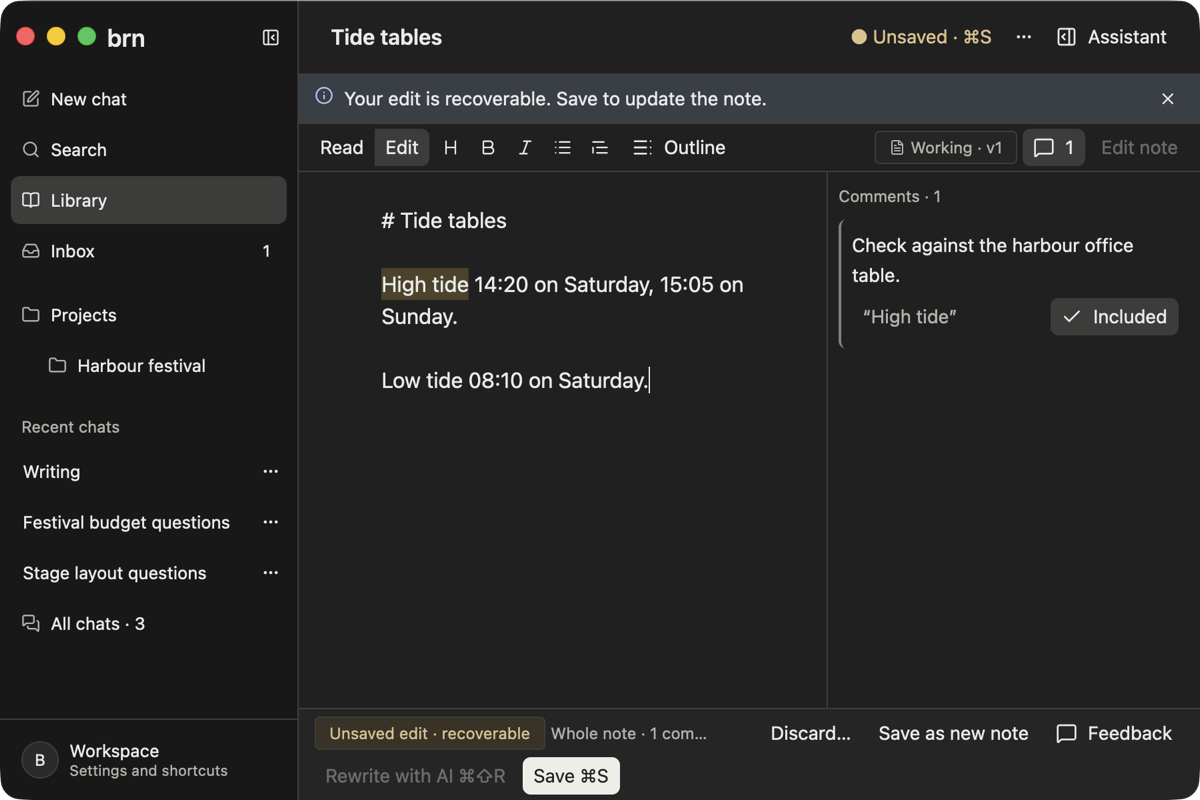
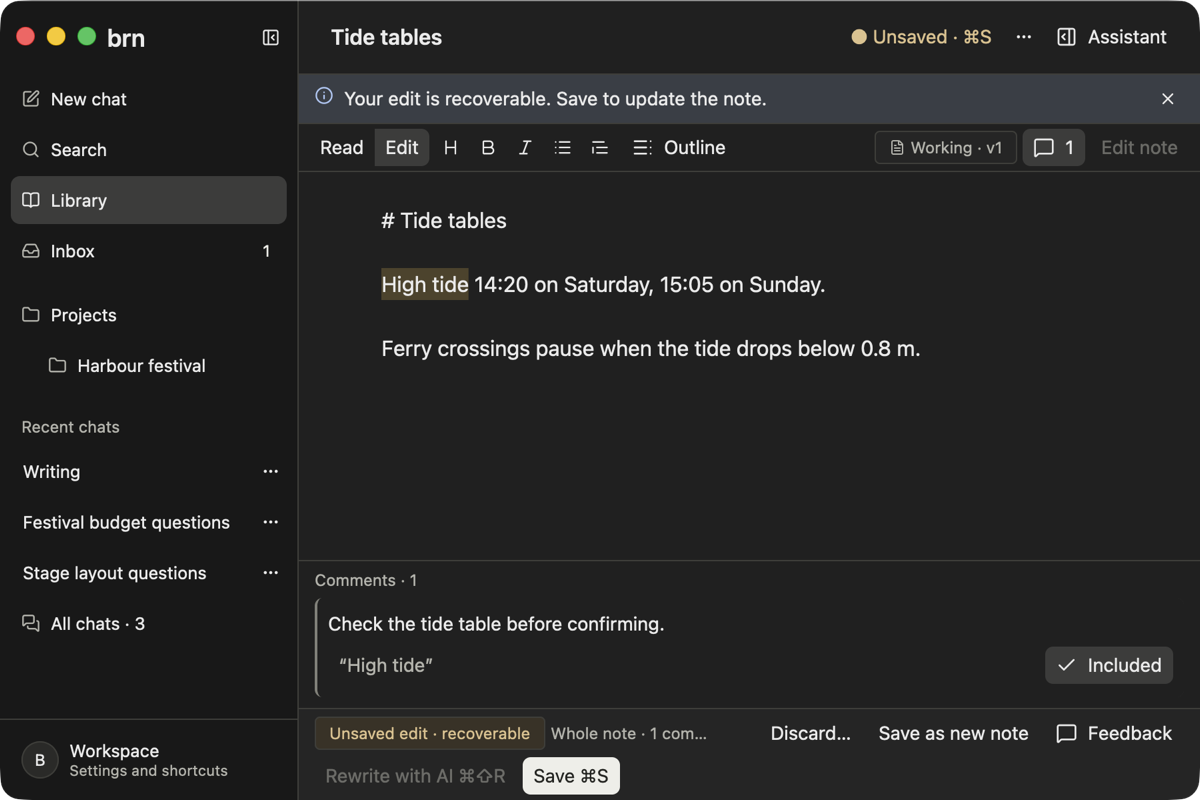
Record native recheck of the Codex fixes and recapture VE-04

diff --git a/docs/work/active/ux-rebuild/acceptance.md b/docs/work/active/ux-rebuild/acceptance.md
@@ -11,14 +11,14 @@ Build: recorded per row as the integration commit. Platform: macOS (Apple silico
 | AC-01 | Workspace continuity | Partial | Lead added last-location restore (host presentation state, `workspace_location`): a test reopens a project document with its project, a project page and Library, and falls back to New chat without a notice when the document is gone. Native Light: a project document quit with Cmd-Q reopened as Run sheet in Harbour festival with one composer and no run or scan. | `relaunch_restores_the_last_valid_workspace_location`; `shots/final/light-ac01-restored.png`. Pane visibility is kept within a session but not across relaunch; the full chat → project → Library → Inbox journey was not toured. |
 | AC-02 | Chat and draft isolation | Partial | Light + Dark 1280 | Native: the composer stays bound to each chat while switching. Automated: per-chat drafts, clear-once-after-accept, a refused send keeps its text and names the retry. Not natively driven across a restart. [S3 evidence](s3-chat-evidence.md) |
 | AC-03 | Queued messages | Pass | Light + Dark 1280 and 900 | Native: paused queue of four in the chat, the start screen and the 900 sheet, with aligned Edit/Remove/↑/↓; Enter queues while paused. Automated: edit, reorder both ways, remove and dispatch order. [S3 evidence](s3-chat-evidence.md) |
-| AC-04 | Stop, Resume, and Steer | Partial | Light + Dark 1280 | Native: Resume queue control present. Automated: Stop pauses the queue, explicit Resume, Steer persistence and partial answers. A live run needs paid provider calls, so Stop/Steer were not driven natively. [S3 evidence](s3-chat-evidence.md) Codex native (`f7ee6ad0`, paid `gpt-6.1-sol`): streaming, Stop, queue pause/resume, Edit and Remove observed; Steer saved two identical owner messages. Fixed in `822750ca` (the continuation reuses the posted message; `threads_steering_tests` asserts one); native recheck pending. See [Codex native test](#codex-native-test-f7ee6ad0). |
+| AC-04 | Stop, Resume, and Steer | Pass | Light + Dark 1280 | Native: Resume queue control present. Automated: Stop pauses the queue, explicit Resume, Steer persistence and partial answers. A live run needs paid provider calls, so Stop/Steer were not driven natively. [S3 evidence](s3-chat-evidence.md) Codex native (`f7ee6ad0`, paid `gpt-6.1-sol`): streaming, Stop, queue pause/resume, Edit and Remove observed; Steer saved two identical owner messages. Fixed in `822750ca` (the continuation reuses the posted message; `threads_steering_tests` asserts one). Native recheck (`055a4288`, Light, paid `gpt-6.1-sol` low): Steer during streaming stored exactly one steering owner message and the reply followed it ([receipt](evidence/final/recheck-steer-owner-messages.txt), [capture](evidence/final/recheck-light-steer-result.png)). See [Codex native test](#codex-native-test-f7ee6ad0). |
 | AC-05 | Provider and model selection | Partial | Light + Dark 1280 | Native: model and effort controls show "ChatGPT · gpt-6.1-sol" and "medium"; no run started. Automated: display names and busy reasons. [S3 evidence](s3-chat-evidence.md) |
-| AC-06 | Chat to document canvas | Partial | Light + Dark 1280 and 900 | Codex native (`f7ee6ad0`): a Library document's assistant showed an unrelated retained chat and proposed editing another note. Fixed in `822750ca`: a document opened outside a conversation shows its own assistant (`library_document_assistant_never_shows_an_unrelated_retained_chat`); native recheck pending. See [Codex native test](#codex-native-test-f7ee6ad0). |
+| AC-06 | Chat to document canvas | Partial | Light + Dark 1280 and 900 | Codex native (`f7ee6ad0`): a Library document's assistant showed an unrelated retained chat and proposed editing another note. Fixed in `822750ca`: a document opened outside a conversation shows its own assistant (`library_document_assistant_never_shows_an_unrelated_retained_chat`). Native recheck (`055a4288`, Light + Dark): after opening another chat, Library → Tide tables → Assistant shows "New chat about Tide tables" ([capture](evidence/final/recheck-light-doc-assistant-after-chat.png)). See [Codex native test](#codex-native-test-f7ee6ad0). |
 | AC-07 | Project attachments and Keep in BRN | Partial | Light + Dark 1280 | Native (`a2c25c88`): a project workspace lists its attached document as "Only in this project" with Keep in BRN and Unlink; opening it shows the document with its assistant titled by the document's name and the sidebar marking the project (`final/{light,dark}-project-workspace`, `-project-doc`). Keep in BRN itself not driven natively; automated in `threads_projects_tests`. |
 | AC-08 | Articles and All files | Pass | Light + Dark 1280 and 900 | Native: Articles default; All files lists the full imported reference, the Topics note and sources with availability; a row opens the same note in Read with the assistant closed. Automated: `library_articles_files_sources_checks_and_search_scope`, `articles_exclude_full_imports_and_files_include_them`. [S5 evidence](s5-library-evidence.md) |
 | AC-09 | Search and scope | Pass | Light + Dark 1280 and 900 | Native: ⌘K "harbor" groups Articles, Files and Chats with scopes; a project-only document is listed only from its own project and opens. Automated: `launcher_lists_the_context_project_documents_after_files`. [S5 evidence](s5-library-evidence.md) Codex native: visible results and scopes correct; result rows were missing from the accessibility tree (see AC-32). See [Codex native test](#codex-native-test-f7ee6ad0). |
 | AC-10 | Direct editing and saving | Partial | Light + Dark 1280 | Automated: edits survive refresh, theme, pane toggles and navigation; Unsaved → Saved; Conflict on stale Save. Native: Saved/Unsaved header and recoverable footer (`dry2/light-recovery`). Native typing and Save not driven. [S4 evidence](s4-writing-evidence.md) |
-| AC-11 | Passage comments and rewrite | Partial | Light + Dark 900 | Automated: anchoring, re-anchoring, "moved" status, unresolved quote kept. Native: commenting on an unsaved edit refused with "Save your edit first". A posted comment (VE-04) not captured natively. [S4 evidence](s4-writing-evidence.md) |
+| AC-11 | Passage comments and rewrite | Partial | Light + Dark 900 | Automated: anchoring, re-anchoring, "moved" status, unresolved quote kept. Native: commenting on an unsaved edit refused with "Save your edit first". Native (`055a4288`, Light + Dark 900): a comment posted with Cmd-/ and Add comment, anchored on “High tide”, alongside an unsaved draft (VE-04). [S4 evidence](s4-writing-evidence.md) |
 | AC-12 | Review-required and protected edits | Partial | Light + Dark 1280 | Automated: review summary, Discard leaves note unchanged, Approve on protected. Native: pending proposal with Added/Removed in words and Apply whole note. Protected Approve not observed natively. [S4 evidence](s4-writing-evidence.md) |
 | AC-13 | Delegated ordinary maintenance | Partial | Light + Dark 1280 | Codex native (`f7ee6ad0`, paid provider): review-first produced a proposal; Maintain ordinary notes saved the ordinary note with maintenance provenance. See [Codex native test](#codex-native-test-f7ee6ad0). |
 | AC-14 | Apply, reopen, and Undo | Partial | Light + Dark 1280 | Automated: apply then reopen; receipt Undo; editor undo cannot resurrect stale text. Native: Apply → v2 text, "Working · v2", Saved. Non-Rewrite proposals show Undo only in Recent changes; Undo not driven natively. [S4 evidence](s4-writing-evidence.md) Codex native: exact candidate unchanged before Apply; Apply, Discard and Undo driven, Undo restored the prior content. See [Codex native test](#codex-native-test-f7ee6ad0). |
@@ -33,13 +33,13 @@ Build: recorded per row as the integration commit. Platform: macOS (Apple silico
 | AC-23 | Concrete permission flow | Partial | Light + Dark 1280 | Codex native (`f7ee6ad0`): exact-input review, Deny, Allow once and Withdraw. Actual MCP execution not tested. See [Codex native test](#codex-native-test-f7ee6ad0). |
 | AC-24 | Save failure and retry | Partial | — | Automated: Conflict keeps the edit and never shows Saved; recovery buffer retained. A held SQLite write lock makes the first-dirty preservation fail: the header shows "Save failed · Retry", never Saved, and Retry saves once the lock is released. Native failure not observed. [S4 evidence](s4-writing-evidence.md) Codex native: a controlled first-dirty save failure showed the failure and Retry then saved. See [Codex native test](#codex-native-test-f7ee6ad0). |
 | AC-25 | Interruption and restart recovery | Not run | | |
-| AC-26 | Provenance and missing sources | Partial | Light + Dark 1280 | Native: source rows state where the original is, or that it was not retained and BRN kept the recorded reference. Removing access to an original not exercised natively. [S5 evidence](s5-library-evidence.md) Codex native: with the original moved, Open original in the import banner gave no feedback. Fixed in `6575f515`: it routes through the shared source opener and names the missing original (`threads_polish_tests`); native recheck pending. See [Codex native test](#codex-native-test-f7ee6ad0). |
+| AC-26 | Provenance and missing sources | Partial | Light + Dark 1280 | Native: source rows state where the original is, or that it was not retained and BRN kept the recorded reference. Removing access to an original not exercised natively. [S5 evidence](s5-library-evidence.md) Codex native: with the original moved, Open original in the import banner gave no feedback. Fixed in `6575f515`: it routes through the shared source opener and names the missing original (`threads_polish_tests`). Native recheck (`055a4288`, Light + Dark): after a full import whose original was then moved, Open original says the original is no longer at its recorded path and the document stays readable ([capture](evidence/final/recheck-dark-missing-original.png)). See [Codex native test](#codex-native-test-f7ee6ad0). |
 | AC-27 | Context switching and archival | Partial | Light 1280 | Native: switching between articles and projects keeps each one's state. No desktop control archives an article, so archive-then-search is automated only (`an_archived_article_leaves_the_library_and_search`). [S5 evidence](s5-library-evidence.md) |
 | AC-28 | Provider and run failures | Partial | — | Automated only: failed and interrupted finish text, refused Stop/Undo banners, MCP refusals. Not native: needs a live provider failure. [S3 evidence](s3-chat-evidence.md) Codex native (paid provider): missing-auth failure visible and recoverable; a refused database write kept the composer text. See [Codex native test](#codex-native-test-f7ee6ad0). |
 | AC-29 | System, Light, and Dark | Partial | Light + Dark | Native Light and Dark tours of every page (`s1`–`s6`, `int-pre`) and a final tour of the integrated build `a2c25c88` in both themes (22 steps each, `shots/final/`). OS appearance flip with System selected is covered by the automated seam test only (owner's OS appearance is not changed). |
-| AC-30 | Window sizes and layout | Partial | Light + Dark 1280×900 and 900×600 | Native (`a2c25c88`): chat, Inbox, Settings, Library, article, recovery and assistant sheet at both sizes without clipping (`shots/final/`). Sizes below 900×600, very wide windows and live resizing not recorded. Codex native: at 900×600 with the sidebar expanded and comments open, the text region was about 396 pt. Fixed in `6575f515`: comments sit beside the text only while it keeps 560 pt (§8), otherwise they stack; the temporary contents view and comments replace each other (`the_temporary_contents_view_and_comments_replace_each_other`); native recheck pending. See [Codex native test](#codex-native-test-f7ee6ad0). |
+| AC-30 | Window sizes and layout | Partial | Light + Dark 1280×900 and 900×600 | Native (`a2c25c88`): chat, Inbox, Settings, Library, article, recovery and assistant sheet at both sizes without clipping (`shots/final/`). Sizes below 900×600, very wide windows and live resizing not recorded. Codex native: at 900×600 with the sidebar expanded and comments open, the text region was about 396 pt. Fixed in `6575f515`: comments sit beside the text only while it keeps 560 pt (§8), otherwise they stack; the temporary contents view and comments replace each other (`the_temporary_contents_view_and_comments_replace_each_other`). Native recheck (`055a4288`, Light + Dark, 900×600, sidebar expanded): comments stack below the full-width text, and Outline replaces the comments section ([VE-04](evidence/final/light-ve04-draft-comment-900.png), [outline](evidence/final/recheck-dark-outline-after-comments-900.png)). See [Codex native test](#codex-native-test-f7ee6ad0). |
 | AC-31 | Keyboard and focus | Partial | Light + Dark | Native: Escape closes the chip and + menus; Shift-Enter inserts a newline; controls reachable by accessible name (every tour step pressed through AX). Automated: Enter/Shift-Enter/IME/⌘↵, Jump to latest label. Full keyboard-only traversal not recorded. [S3 evidence](s3-chat-evidence.md) |
-| AC-32 | Native accessibility semantics | Partial | Light + Dark 1280 | Codex native (`f7ee6ad0`): ⌘K result rows were absent from the native accessibility tree. Fixed in `6575f515`: results are a list box of options named with title, type and scope (`threads_omakase_tests`); native recheck pending. VoiceOver not run. See [Codex native test](#codex-native-test-f7ee6ad0). |
+| AC-32 | Native accessibility semantics | Partial | Light + Dark 1280 | Codex native (`f7ee6ad0`): ⌘K result rows were absent from the native accessibility tree. Fixed in `6575f515`: results are a list box of options named with title, type and scope (`threads_omakase_tests`). Native recheck (`055a4288`, Light + Dark): from Harbour festival, ⌘K "run" exposes a "Search results" list containing "Project document: Run sheet · only in Harbour festival" ([tree](evidence/final/recheck-dark-launcher-run-in-project-axtree.txt)); rows report the static-text role rather than list-box option. VoiceOver not run. See [Codex native test](#codex-native-test-f7ee6ad0). |
 | AC-33 | Native text and long content | Not run | | |
 | AC-34 | Actual app, toolkit migration and declared platform gates | Partial | — | `gpui-kit =0.9.0` resolved once in the lockfile; `--locked` builds and the real app launched on macOS (Apple silicon). Other declared release targets are not available in this environment (see `s0-gpui-090-evidence.md`). |
 | AC-35 | Export and backup restore | Partial | — | Export, full backup and isolated restore driven through the shared service by CLI (S6 evidence); UI panels present in Settings → Data but not natively driven. Automated: backup/restore tests. |
@@ -65,7 +65,7 @@ Independent native test by Codex (`gpt-6.1-sol`, paid provider runs on the owner
 
 Observed OK: streaming, Stop, queue pause/resume, Edit and Remove; missing-auth failure and refused send; exact candidate review, Apply, Discard and Undo; delegation (review-first and ordinary maintenance); permission review, Deny, Allow once and Withdraw; the running assistant sheet at 900×600; private documents shared by two projects; visible-route search scope; attachment location across relaunch; per-chat queued edits; S4 save-failure Retry, history preview/restore and empty compact Outline; S6 retry scope, folder consent and rescan counts. Export, backup and restore passed through the shared-service CLI.
 
-Fixes are verified by automated tests; the native recheck of the fixes is pending. Not tested: VoiceOver, IME, larger text, live OS appearance switching, large-library performance and actual MCP execution.
+Fixes are verified by automated tests and natively rechecked on `055a4288`: #1, #3, #4 and #5 in Light and Dark; #2 in Light with one paid low-effort run (one stored steering message). Nit seen during the Steer recheck: the composer status read "Starting…" while the reply was already streaming. Not tested: VoiceOver, IME, larger text, live OS appearance switching, large-library performance and actual MCP execution.
 
 ## Visual evidence
 
@@ -74,7 +74,7 @@ Fixes are verified by automated tests; the native recheck of the fixes is pendin
 | VE-01 | Conversation with an answer, references, active context, and composer | Light and Dark; 1280×900 | Pass | `shots/s3/ve01-{light,dark}-1280-conversation.png` (answer with references, paused queue, attachment row, composer) |
 | VE-02 | Document canvas with pending review, old/new text, assistant, and Apply/Discard | Light and Dark; 1280×900 | Pass | `shots/s4/{light,dark}-1280-review-pending.png`, `dark-1280-review-result.png`, `{light,dark}-1280-review-applied-undo.png` |
 | VE-03 | Article Library with a current delegated-update example and access to All files | Light and Dark; 1280×900 | Pass | Captured at 1280×928 and 900×628 in both themes (`shots/s5/`). [S5 evidence](s5-library-evidence.md) |
-| VE-04 | Direct-edit draft with a passage comment and a useful pane configuration | Light and Dark; 900×600 | Partial | `final/{light,dark}-ve04-draft-comment-900.png` at `e6949de4`: Tide tables in Edit with an unsaved, recoverable draft line; the passage comment anchored on “High tide” (highlighted) with the Comments pane beside the text; Save, Discard and Save as new note in the footer. Comment added natively with Cmd-/ and Add comment. Nit: the comment's conversation appears in Recent chats as “Writing”. These captures predate `6575f515`: beside the expanded sidebar at 900×600 the comments now stack below the text to keep 560 pt; recapture pending. |
+| VE-04 | Direct-edit draft with a passage comment and a useful pane configuration | Light and Dark; 900×600 | Pass | `final/{light,dark}-ve04-draft-comment-900.png` at `055a4288`: Tide tables in Edit with an unsaved, recoverable draft line; the passage comment anchored on “High tide” (highlighted); with the sidebar expanded the Comments section stacks below the full-width text, keeping the 560 pt document region (§8); Save, Discard and Save as new note in the footer. Comment added natively with Cmd-/ and Add comment. Nit: the comment's conversation appears in Recent chats as “Writing”. |
 | VE-05 | One concrete permission dialog; one representative provider or persistence error | Permission in Light; error in Dark; 1280×900 | Not run | |
 | VE-06 | Manual Inbox Scan result; task completion receipt | Scan in Light; receipt in Dark; 1280×900 | Partial | Scan in Light: `s6/light-1280-scan-*`. A task completion receipt in Dark was not captured natively. |
 | VE-07 | Settings with the appearance choice and visible keyboard focus | Either theme; 900×600 | Pass | `final/{light,dark}-ve07-settings-appearance-900.png`: Appearance section with System/Light/Dark and a visible focus ring after Tab. |
@@ -93,6 +93,11 @@ Downscaled copies of native captures (synthetic data, macOS) are kept in [eviden
 | [light-doc-history-preview](evidence/final/light-doc-history-preview.png) | Document history with a version preview (Light, AC-17) |
 | [dark-inbox-for-you](evidence/final/dark-inbox-for-you.png) | Inbox For you with a recovery decision (Dark) |
 | [light-ve04-draft-comment-900](evidence/final/light-ve04-draft-comment-900.png), [dark-ve04-draft-comment-900](evidence/final/dark-ve04-draft-comment-900.png) | Direct-edit draft with a passage comment at 900×600 (VE-04) |
+| [recheck-light-doc-assistant-after-chat](evidence/final/recheck-light-doc-assistant-after-chat.png) | Library document assistant after another chat was open (Codex #1 recheck) |
+| [recheck-light-steer-result](evidence/final/recheck-light-steer-result.png), [recheck-steer-owner-messages](evidence/final/recheck-steer-owner-messages.txt) | Reply after one Steer, and the stored owner messages (Codex #2 recheck) |
+| [recheck-dark-launcher-run-in-project-axtree](evidence/final/recheck-dark-launcher-run-in-project-axtree.txt) | ⌘K results in the native accessibility tree (Codex #3 recheck) |
+| [recheck-dark-outline-after-comments-900](evidence/final/recheck-dark-outline-after-comments-900.png) | Outline replacing stacked comments at 900×600 (Codex #4 recheck) |
+| [recheck-dark-missing-original](evidence/final/recheck-dark-missing-original.png) | Open original naming a moved original (Codex #5 recheck) |
 | [dark-settings-appearance](evidence/final/dark-settings-appearance.png) | Settings → Appearance (Dark) |
 | [light-ac01-restored](evidence/final/light-ac01-restored.png) | Project document restored after relaunch (AC-01) |
 | [light-search-project-scope](evidence/final/light-search-project-scope.png), [light-search-library-scope](evidence/final/light-search-library-scope.png) | ⌘K "run" from a project document lists it under "This project · Project documents · not in Library"; from Library it finds nothing (S5 review fix) |
